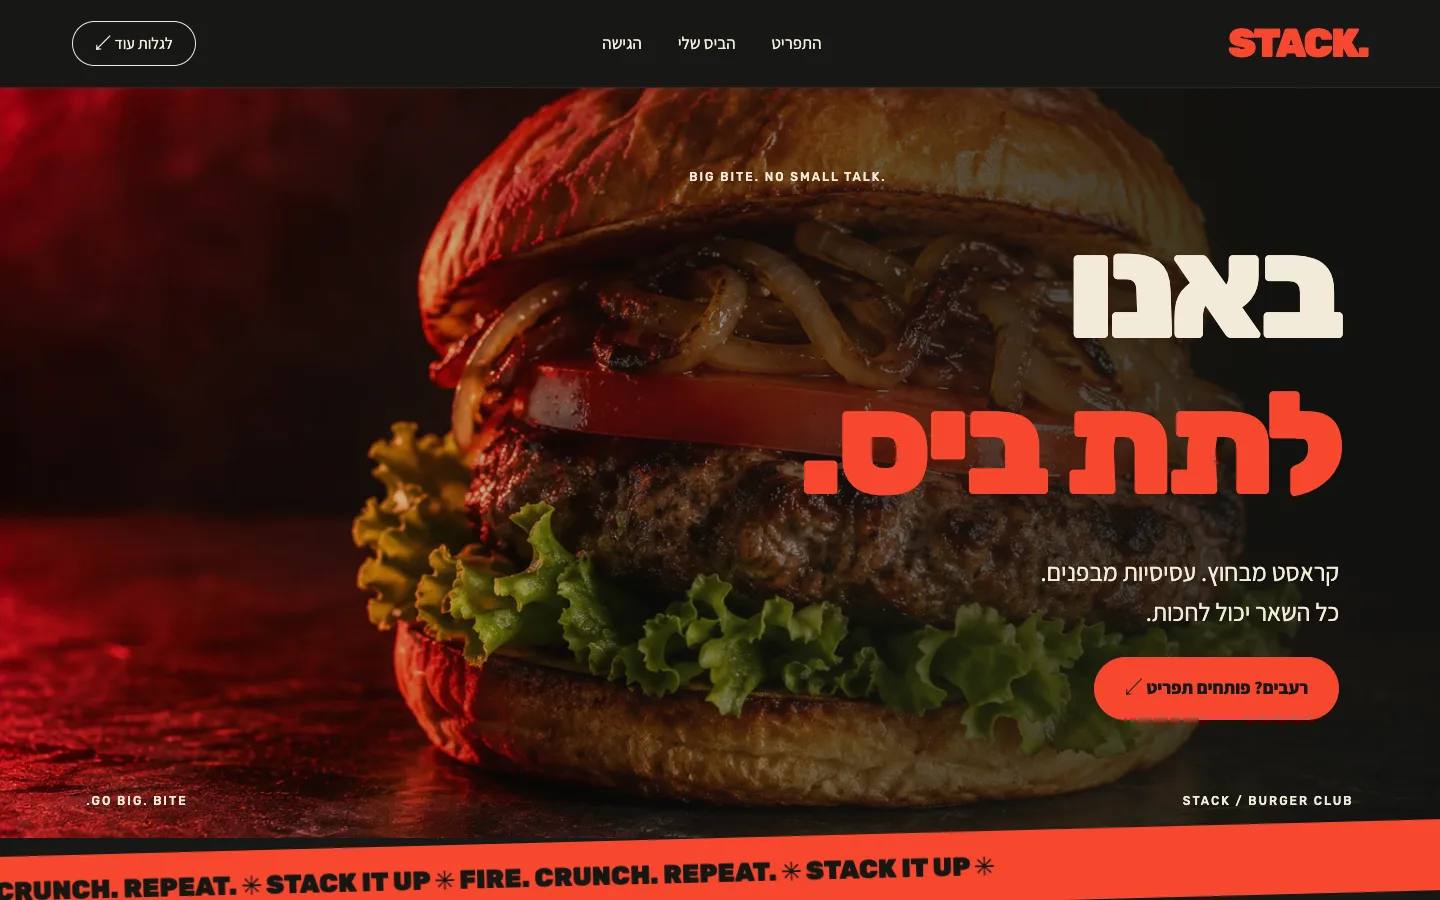
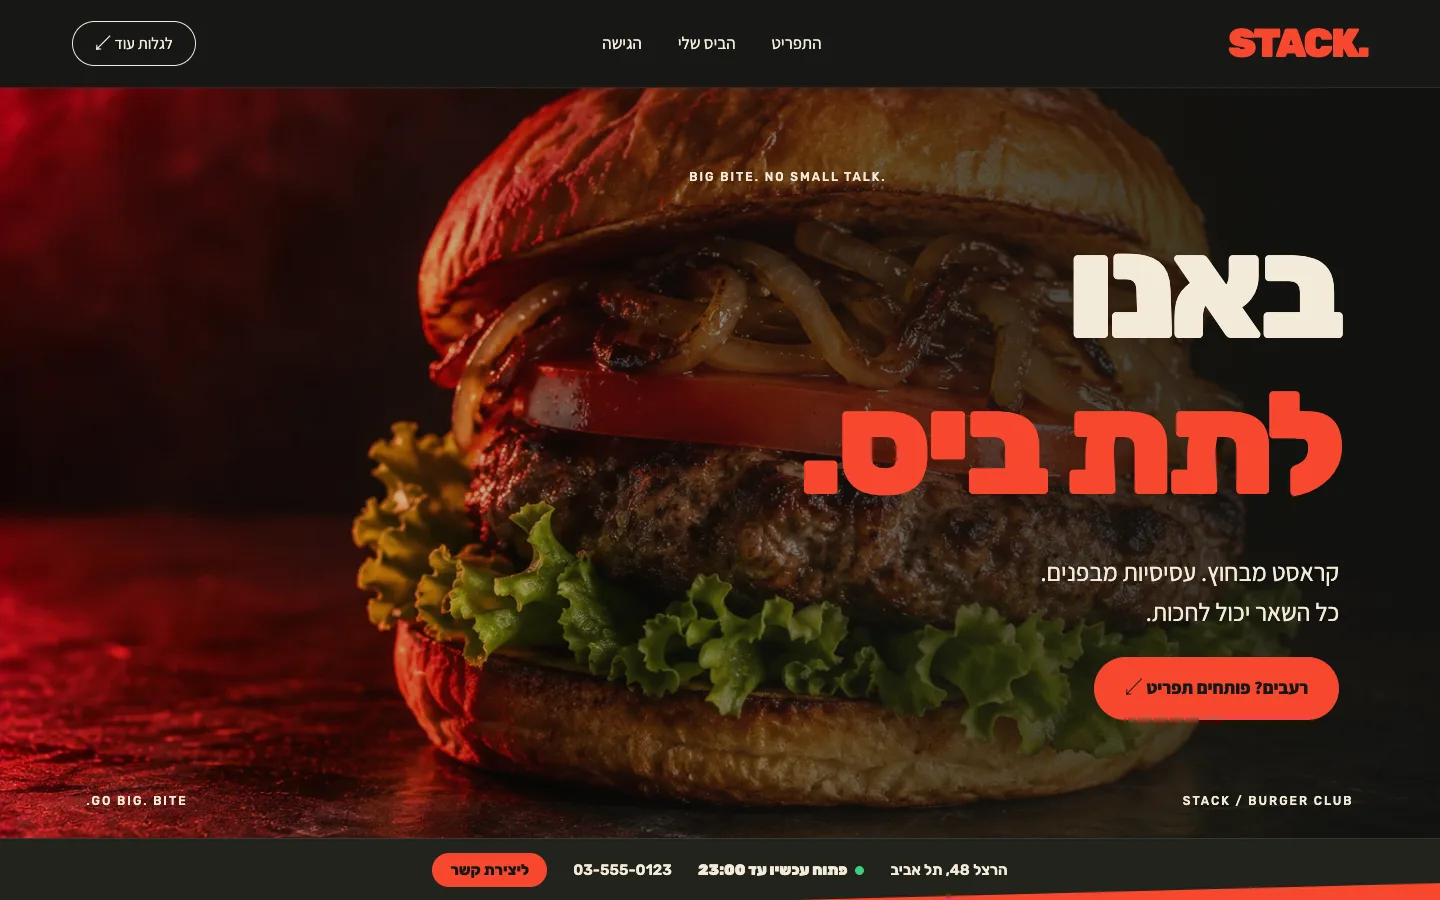
Cinematic heroes and info strip for the brand demos; refreshed mockups

Changed region(s): [[0.0, 0.9022, 1.0, 1.0], [0.875, 0.7778, 0.9062, 0.8089]]

diff --git a/public/demos/fx.css b/public/demos/fx.css
@@ -189,3 +189,38 @@
 .fx-foot{background:#111;color:#f5f2ea;font-size:14px}.fx-foot a{color:inherit;text-decoration:underline}
 .burger-brand .vs-hours tr.today th,.burger-brand .vs-hours tr.today td{color:#ff7a62}
 html:has(.burger-brand){overflow-x:clip}
+
+/* ---------- cinematic heroes ---------- */
+.jewelry .landing-hero,.school .landing-hero{position:relative;display:grid;direction:rtl;grid-template-columns:1fr;min-height:min(88svh,780px);padding:0;gap:0;isolation:isolate;overflow:hidden;align-items:center}
+.jewelry .landing-hero figure,.school .landing-hero figure{position:absolute;inset:0;margin:0;z-index:-2}
+.jewelry .landing-hero figure img,.school .landing-hero figure img{width:100%;height:100%;max-height:none;object-fit:cover;border-radius:0;transform:scale(1.06);animation:kenburns 18s ease-in-out infinite alternate}
+.jewelry .landing-hero figcaption,.school .landing-hero figcaption{display:none}
+.jewelry .landing-hero::after{content:"";position:absolute;inset:0;z-index:-1;background:linear-gradient(270deg,#0c0c0bf2 0,#0c0c0bd0 36%,#0c0c0b22 80%),linear-gradient(0deg,#0c0c0bcc,transparent 40%)}
+.jewelry .hero-text,.school .hero-text{padding:clamp(54px,8vw,130px) 6vw;max-width:680px;position:relative}
+.school .hero-text{background:#fff9e8ee;border-radius:34px;margin:clamp(24px,6vw,80px);padding:clamp(28px,4vw,56px);backdrop-filter:blur(8px);box-shadow:0 30px 60px -30px #252356aa;max-width:600px}
+.jewelry .hero-text h1{text-shadow:0 2px 30px #000a}
+@keyframes kenburns{to{transform:scale(1.14) translate(-1.5%,1%)}}
+@media(max-width:700px){
+  .jewelry .landing-hero,.school .landing-hero{min-height:92svh;align-items:end}
+  .jewelry .landing-hero::after{background:linear-gradient(0deg,#0c0c0bf5 0,#0c0c0bd8 45%,#0c0c0b30 100%)}
+  .jewelry .hero-text{padding:40px 6vw 44px}
+  .school .hero-text{margin:16px;padding:26px 22px}
+}
+/* glow + scoop: image first and a card that overlaps it on phones */
+@media(max-width:700px){
+  .beauty-hero{display:flex;flex-direction:column-reverse}
+  .beauty-visual{min-height:58svh!important;border-radius:0 0 80px 0}
+  .beauty-copy{margin-top:-46px;border-radius:34px 34px 0 0;position:relative;z-index:3;box-shadow:0 -20px 40px -20px #33253855}
+  .gelato-hero{display:flex;flex-direction:column-reverse}
+  .gelato-photo{height:54svh!important;transform:none!important;border-radius:0 0 90px 90px!important;margin:-20px -6vw 0}
+  .gelato-title{background:#fffdf0;border-radius:34px 34px 0 0;padding:26px 6vw 0!important;margin:-40px -6vw 0;position:relative;z-index:3}
+}
+.fx-strip{display:flex;flex-wrap:wrap;gap:10px 26px;align-items:center;justify-content:center;padding:14px 6vw;background:var(--vs-bg);color:var(--vs-ink);font:600 15px/1.2 Rubik,Heebo,Arial,sans-serif;border-block:1px solid #8883}
+.fx-strip a{text-decoration:none}
+.fx-strip span,.fx-strip a{display:inline-flex;align-items:center;gap:8px}
+.fx-strip .fx-cta{padding:8px 18px;border-radius:99px;background:var(--vs-a);color:var(--vs-on);font-weight:800}
+.fx-strip .dot{width:9px;height:9px;border-radius:50%;background:#9a9a9a;display:inline-block}
+.fx-strip .dot.on{background:#3ad07a}
+@media(max-width:700px){.fx-strip{font-size:13.5px;gap:8px 16px;padding:12px 5vw}}
+.a11y-nomotion .landing-hero figure img{animation:none}
+@media(prefers-reduced-motion:reduce){.landing-hero figure img{animation:none!important}}

diff --git a/public/demos/school.html b/public/demos/school.html
@@ -1,7 +1,7 @@
 <!doctype html>
 <html lang="he" dir="rtl"><head><meta charset="utf-8"><meta name="viewport" content="width=device-width,initial-scale=1"><title>PLAYDAY — דף נחיתה ופוסטר | Liz Code & Color</title><meta name="description" content="פרויקט עיצוב ופיתוח: PLAYDAY. דף נחיתה ופוסטר מתוך תיק העבודות של ליז."><link href="https://fonts.googleapis.com/css2?family=Assistant:wght@400;600;700;800&family=Rubik:wght@500;700;900&display=swap" rel="stylesheet"><link href="landing.css" rel="stylesheet"><meta name="robots" content="noindex,follow"><link rel="stylesheet" href="fx.css"></head>
 <body class="school"><div class="demo-ribbon"><a href="/#brand-worlds">← לתיק העבודות של ליז</a><span>עיצוב ופיתוח · Liz Code & Color</span></div>
-<header class="landing-nav"><a class="wordmark" href="#" dir="ltr">PLAYDAY</a><nav aria-label="ניווט בדף"><a href="#collection">הפעילויות</a><a href="#story">הסיפור</a><a href="#poster">הפוסטר</a></nav><a class="nav-cta" href="/#contact">אתר כזה לעסק שלי ↗</a></header>
+<header class="landing-nav"><a class="wordmark" href="#" dir="ltr">PLAYDAY</a><nav aria-label="ניווט בדף"><a href="#collection">הפעילויות</a><a href="#story">הסיפור</a><a href="#poster">הפוסטר</a></nav><a class="nav-cta" href="#visit">הרשמה ↙</a></header>
 <main><section class="landing-hero"><div class="hero-text"><p class="eyebrow">MAKE ROOM FOR FUN</p><h1>היום לומדים<br>לעשות כיף!</h1><p class="sub">יום אחד. המון רגעים טובים.</p><p>משחקים, יצירה, תנועה וחברים — עיצוב ליום שיא בית ספרי שמוציא את כולם מהשגרה.</p><a class="button" href="#collection">מה מחכה לנו? ↓</a></div><figure><img src="../assets/school.webp" width="1024" height="1024" alt="יצירה צבעונית ליום כיף בבית ספר"><figcaption>PLAYDAY / THE COLLECTION</figcaption></figure></section>
 <div class="ticker" aria-hidden="true">MAKE ROOM FOR FUN ✦ PLAYDAY ✦ MAKE ROOM FOR FUN ✦ PLAYDAY</div>
 <section id="collection" class="collection"><div class="section-heading"><span>01 / EXPLORE</span><h2>תחנה חדשה. הרפתקה חדשה.</h2></div><div class="collection-grid"><article><span>01 / MOVE</span><h3>זזים ביחד</h3><p>משחקי צוות ואתגרים משותפים בחצר.</p></article><article><span>02 / CREATE</span><h3>יוצרים משהו משלנו</h3><p>צבעים, רעיונות וסדנת יצירה עם מקום לדמיון.</p></article><article><span>03 / PLAY</span><h3>פשוט משחקים</h3><p>פעילות קבוצתית שמחברת בין הילדים.</p></article></div></section>

diff --git a/public/demos/jewelry.html b/public/demos/jewelry.html
@@ -1,7 +1,7 @@
 <!doctype html>
 <html lang="he" dir="rtl"><head><meta charset="utf-8"><meta name="viewport" content="width=device-width,initial-scale=1"><title>AURA — דף נחיתה ופוסטר | Liz Code & Color</title><meta name="description" content="פרויקט עיצוב ופיתוח: AURA. דף נחיתה ופוסטר מתוך תיק העבודות של ליז."><link href="https://fonts.googleapis.com/css2?family=Assistant:wght@400;600;700;800&family=Rubik:wght@500;700;900&display=swap" rel="stylesheet"><link href="landing.css" rel="stylesheet"><meta name="robots" content="noindex,follow"><link rel="stylesheet" href="fx.css"></head>
 <body class="jewelry"><div class="demo-ribbon"><a href="/#brand-worlds">← לתיק העבודות של ליז</a><span>עיצוב ופיתוח · Liz Code & Color</span></div>
-<header class="landing-nav"><a class="wordmark" href="#" dir="ltr">AURA</a><nav aria-label="ניווט בדף"><a href="#collection">הקולקציה</a><a href="#story">הסיפור</a><a href="#poster">הפוסטר</a></nav><a class="nav-cta" href="/#contact">אתר כזה לעסק שלי ↗</a></header>
+<header class="landing-nav"><a class="wordmark" href="#" dir="ltr">AURA</a><nav aria-label="ניווט בדף"><a href="#collection">הקולקציה</a><a href="#story">הסיפור</a><a href="#poster">הפוסטר</a></nav><a class="nav-cta" href="#visit">קביעת פגישה ↙</a></header>
 <main><section class="landing-hero"><div class="hero-text"><p class="eyebrow">OBJECTS OF LIGHT</p><h1>לא רק תכשיט.<br>משהו ממך.</h1><p class="sub">THE QUIET KIND OF EXTRAORDINARY</p><p>קווים נקיים, אור רך ופרטים שנשארים איתך. קולקציה  של רגעים קטנים בזהב.</p><a class="button" href="#collection">לגלות את הקולקציה ↓</a></div><figure><img src="../assets/jewelry.webp" width="1024" height="1024" alt="תכשיטי זהב על רקע כהה"><figcaption>AURA / THE COLLECTION</figcaption></figure></section>
 <div class="ticker" aria-hidden="true">OBJECTS OF LIGHT ✦ AURA ✦ OBJECTS OF LIGHT ✦ AURA</div>
 <section id="collection" class="collection"><div class="section-heading"><span>01 / EXPLORE</span><h2>שלוש דרכים לזהור.</h2></div><div class="collection-grid"><article><span>I / FORM</span><h3>קווים של אור</h3><p>שרשראות בגישה פיסולית. נוכחות שקטה ומדויקת.</p></article><article><span>II / FLOW</span><h3>תנועה עדינה</h3><p>עגילים שמוסיפים תנועה לכל רגע.</p></article><article><span>III / FOREVER</span><h3>חותם אישי</h3><p>טבעות כפריט אישי, בדרך שלך.</p></article></div></section>

diff --git a/public/demos/fx.js b/public/demos/fx.js
@@ -263,3 +263,28 @@
     form.reset();
   });
 })();
+
+/* ---- live info strip under the hero ---- */
+(() => {
+  const vs = document.querySelector("#visit");
+  const hero = document.querySelector(".landing-hero,.beauty-hero,.gelato-hero,.burger-hero");
+  if (!vs || !hero || document.querySelector(".fx-strip")) return;
+  const strip = document.createElement("div");
+  strip.className = "fx-strip";
+  strip.setAttribute("style", vs.getAttribute("style") || "");
+  const addr = vs.querySelector(".vs-addr b")?.textContent || "";
+  const tel = vs.querySelector(".vs-addr a[href^=tel]");
+  const hasOpen = !!vs.querySelector("[data-open]");
+  const date = vs.dataset.countdown ? "יום חמישי, 26.11 · 08:30 עד 16:00" : "";
+  strip.innerHTML = `<span>${addr}</span><span>${hasOpen ? '<i class="dot" data-sdot></i><b data-sopen></b>' : date}</span>${tel ? `<a href="${tel.getAttribute("href")}" dir="ltr">${tel.textContent}</a>` : ""}<a class="fx-cta" href="#visit">${vs.dataset.countdown ? "להרשמה" : "ליצירת קשר"}</a>`;
+  hero.insertAdjacentElement("afterend", strip);
+  if (hasOpen) {
+    const sync = () => {
+      const o = vs.querySelector("[data-open]");
+      strip.querySelector("[data-sopen]").textContent = o.textContent;
+      strip.querySelector("[data-sdot]").classList.toggle("on", o.classList.contains("on"));
+    };
+    sync();
+    setInterval(sync, 5000);
+  }
+})();
